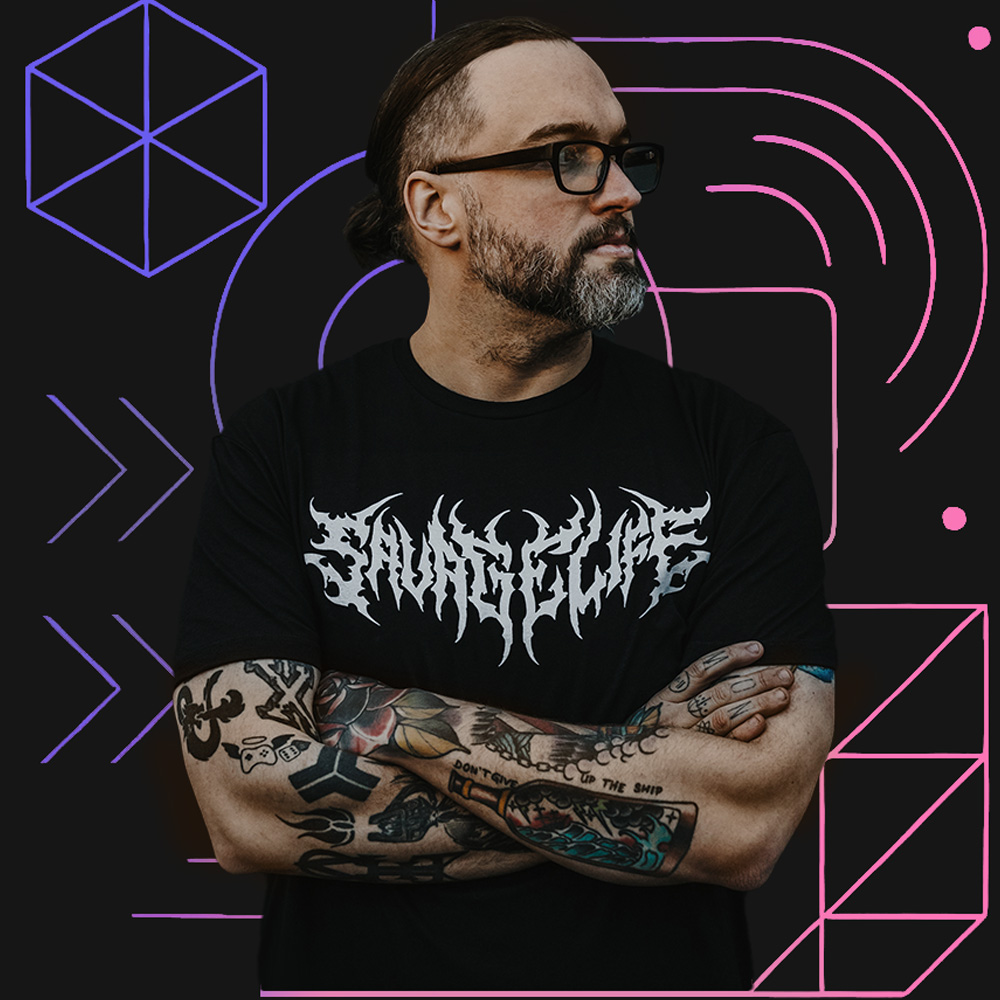
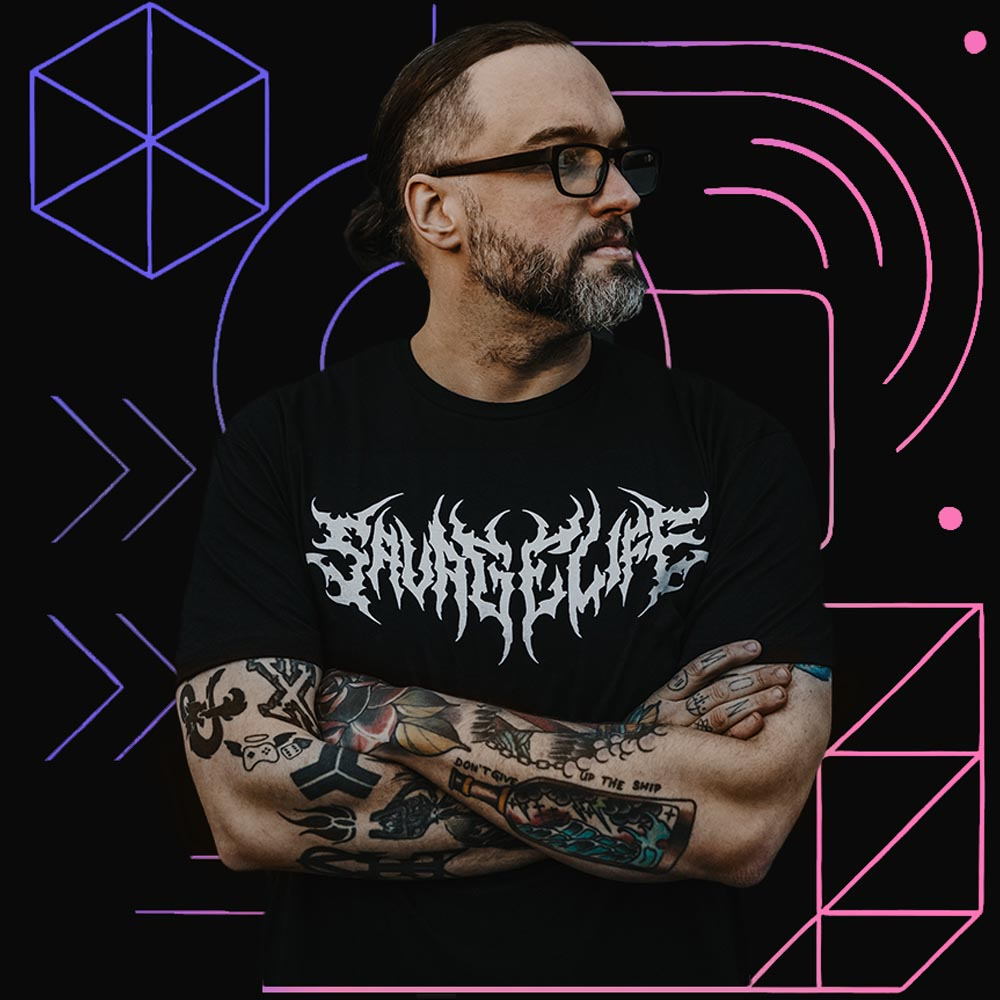
Navbar fixes, Home Card Updates, New Hero Image

diff --git a/src/app/globals.css b/src/app/globals.css
@@ -5,17 +5,17 @@
   --black: #020202;
   --white: #ffffff;
 
-  --smoke-950: #161616;
-  --smoke-900: #212121;
-  --smoke-800: #383838;
-  --smoke-700: #4f4f4f;
-  --smoke-600: #696969;
-  --smoke-500: #808080;
+  --smoke-50: #f2f2f2;
+  --smoke-100: #e6e6e6;
+  --smoke-200: #cccccc;
+  --smoke-300: #b3b3b3;
   --smoke-400: #969696;
-  --smoke-300: #adadad;
-  --smoke-200: #c4c4c4;
-  --smoke-100: #dbdbdb;
-  --smoke-50: #e8e8e8;
+  --smoke-500: #7d7d7d;
+  --smoke-600: #636363;
+  --smoke-700: #4a4a4a;
+  --smoke-800: #303030;
+  --smoke-900: #161616;
+  --smoke-950: #0a0a0a;
 
   --ekko-50: #f1f1fe;
   --ekko-100: #e3e3fd;
@@ -43,6 +43,7 @@
 
   --nice-420: #042069;
   --nice-069: #696969;
+  --brand: linear-gradient(90deg, var(--ekko-600), var(--accent-500));
 }
 
 @media (prefers-color-scheme: dark) {
@@ -56,6 +57,16 @@ html,
 body {
   max-width: 100vw;
   overflow-x: hidden;
+}
+
+h1,
+h2,
+h3,
+h4,
+h5,
+h6 {
+  font-family: Karla;
+  color: var(--white);
 }
 
 body {
@@ -96,6 +107,15 @@ main {
   margin-bottom: 4rem;
 }
 
+.container-small {
+  width: 100%;
+  max-width: 800px;
+  margin: auto;
+  gap: 2rem;
+  margin-top: 4rem;
+  margin-bottom: 4rem;
+}
+
 .image-cover {
   object-fit: cover;
 }
@@ -112,6 +132,64 @@ main {
 .flex-row {
   display: flex;
   flex-direction: row;
+}
+
+.gap-1 {
+  gap: .5rem;
+}
+
+.heading-home {
+  color: var(--white);
+  font-size: 48px;
+  font-weight: 600;
+  text-align: center;
+  margin: 4rem 0 4rem 0;
+}
+
+.text-home {
+  font-size: 20px;
+  color: var(--white);
+  text-align: center;
+  line-height: 2rem;
+}
+
+.primaryBtn {
+  display: inline-block;
+  padding: 1rem 2rem;
+  font-size: 1rem;
+  font-weight: 600;
+  color: var(--white);
+  background: linear-gradient(90deg, var(--ekko-600), var(--accent-500));
+  border: 2px transparent transparent;
+  border-radius: 8px;
+  text-decoration: none;
+  cursor: pointer;
+}
+
+.secondaryBtn {
+  display: inline-block;
+  padding: 1rem 2rem;
+  font-size: 1rem;
+  font-weight: 600;
+  color: var(--white);
+  background: transparent;
+  border: 2px solid;
+  border-image: linear-gradient(90deg, var(--ekko-600), var(--accent-500)) 1;
+  text-decoration: none;
+  cursor: pointer;
+  transition: all 150ms;
+}
+
+.secondaryBtn:hover {
+  display: inline-block;
+  padding: 1rem 2rem;
+  font-size: 1rem;
+  font-weight: 600;
+  color: var(--white);
+  background: linear-gradient(90deg, var(--ekko-600), var(--accent-500));
+  border: 2px transparent transparent;
+  text-decoration: none;
+  cursor: pointer;
 }
 
 .heroPrimaryBtn {
@@ -266,31 +344,4 @@ main {
 
 .heroSecondaryBtn:hover .border-draw {
   transition-delay: 0s, 0.15s, 0.35s;
-}
-
-.primaryBtn {
-  display: inline-block;
-  padding: 1rem 2rem;
-  font-size: 1rem;
-  font-weight: 600;
-  color: white;
-  background: linear-gradient(90deg, var(--ekko-600), var(--accent-500));
-  border: none;
-  border-radius: 8px;
-  text-decoration: none;
-  cursor: pointer;
-}
-
-.secondaryBtn {
-  display: inline-block;
-  padding: 1rem 2rem;
-  font-size: 1rem;
-  font-weight: 600;
-  color: white;
-  background: transparent;
-  border: 2px solid;
-  border-image: linear-gradient(90deg, var(--ekko-600), var(--accent-500)) 1;
-  border-radius: 8px;
-  text-decoration: none;
-  cursor: pointer;
 }

diff --git a/src/components/Navbar/Navbar.tsx b/src/components/Navbar/Navbar.tsx
@@ -28,16 +28,27 @@ export default function Navbar() {
             <li>
               <Link href='/resume'>Resume</Link>
             </li>
-            <li>
-              <Link href='/cases'>Case Studies</Link>
+            <li className='flex-row gap-1'>
+              <Link href='https://www.behance.net/mikekenway'
+                    target='_blank'
+              >
+                Case Studies
+              </Link>
+              <Image  src='/newtab.png'
+                alt=''
+                height={20}
+                width={20}
+              />
             </li>
             <li>
-              <Link
-                href='/contact'
-                className='primaryBtn'
-              >
-                Get in Touch
-              </Link>
+              <div>
+                <Link
+                  href='/contact'
+                  className={styles.navBtn}
+                >
+                  Get in Touch
+                </Link>
+              </div>
             </li>
           </ul>
         </nav>

diff --git a/src/components/Status/Status.module.css b/src/components/Status/Status.module.css
@@ -1,23 +1,21 @@
 .badge {
-    display: inline-flex;
-    align-items: center;
-    text-transform: uppercase;
-    background-color: var(--white);
-    color: var(--smoke-900);
-    padding: 6px 12px;
-    border-radius: 999px;
-    font-weight: 600;
-    font-size: .9rem;
-    margin-left: 1rem;
-  }
-  
-  .indicator {
-    width: 10px;
-    height: 10px;
-    background-color: #4caf50; 
-    border-radius: 50%;
-    margin-right: 8px;
-    box-shadow: 0 0 4px #4caf50; 
-  }
+  display: inline-flex;
+  align-items: center;
+  text-transform: uppercase;
+  background-color: var(--white);
+  color: var(--smoke-900);
+  padding: 6px 12px;
+  border-radius: 999px;
+  font-weight: 600;
+  font-size: 0.9rem;
+  margin-left: 1rem;
+}
 
-  
+.indicator {
+  width: 10px;
+  height: 10px;
+  background-color: #4caf50;
+  border-radius: 50%;
+  margin-right: 8px;
+  box-shadow: 0 0 4px #4caf50;
+}

diff --git a/src/components/ServiceCard/ServiceCard.module.css b/src/components/ServiceCard/ServiceCard.module.css
@@ -2,30 +2,32 @@
 .card {
     display: flex;
     flex-direction: column;
-    border: 1px solid #e0e0e0; /* light border */
+    border: 1px solid transparent; /* light border */
     border-radius: 12px;
-    padding: 24px;
+    padding: 40px;
     text-align: center;
     max-width: 570px;
-    gap: 1rem;
     align-items: start;
-    color: #fff;
+    color: var(--white);
+    gap: 1.5rem;
+    background-color: var(--smoke-900);
   }
   
   .title {
-    font-size: 2rem;
+    font-size: 2.2rem;
     margin-bottom: 12px;
   }
   
   .description {
     font-size: 1.5rem;
+    line-height: 2.5rem;
     margin-bottom: 16px;
     text-align: left;
   }
   
   /* Hover effects */
   .card:hover {
-    border-color: var(--accent-400);
+    border-color: var(--ekko-400);
     box-shadow: 0 8px 20px rgba(0, 0, 0, 0.1);
     transition: 150ms ease-in-out;
   }

diff --git a/src/components/Navbar/Navbar.module.css b/src/components/Navbar/Navbar.module.css
@@ -30,7 +30,7 @@
   list-style: none;
   display: flex;
   align-items: center;
-  gap: 2rem;
+  gap: 2.5rem;
   margin: 0;
   padding: 0;
 }
@@ -43,7 +43,7 @@
 
 }
 
-.navLinks a:hover:not(.primaryBtn) {
+.navLinks a:hover:not(.navBtn) {
   color: var(--ekko-300);
   transition: color 200ms ease-in-out;
 }
@@ -59,4 +59,17 @@
   color: var(--white);
   font-size: 36px;
   font-weight: 600;
+}
+
+.navBtn {
+  display: inline-block;
+  padding: 1rem 2rem;
+  font-size: 1rem;
+  font-weight: 600;
+  color: var(--white);
+  background: linear-gradient(90deg, var(--ekko-600), var(--accent-500));
+  border: 2px transparent transparent;
+  border-radius: 8px;
+  text-decoration: none;
+  cursor: pointer;
 }

diff --git a/src/app/layout.tsx b/src/app/layout.tsx
@@ -3,6 +3,7 @@ import styles from './layout.module.css';
 import Navbar from '../components/Navbar/Navbar';
 import { Inter } from 'next/font/google';
 import { Roboto } from 'next/font/google';
+import { Karla } from 'next/font/google';
 
 // Define props for our Layout to accept children (page content)
 interface LayoutProps {
@@ -17,6 +18,12 @@ const inter = Inter({
 });
 
 const roboto = Roboto({
+  subsets: ['latin'],
+  weight: ['400', '500', '600', '700'],
+  display: 'swap',
+});
+
+const karla = Karla({
   subsets: ['latin'],
   weight: ['400', '500', '600', '700'],
   display: 'swap',

diff --git a/src/app/page.tsx b/src/app/page.tsx
@@ -7,6 +7,12 @@ export default function Home() {
   return (
     <main>
       <Hero />
+      <h2 className='heading-home'>What Can I Do for You?</h2>
+      <p className='container-small text-home'>
+        I love helping people bring their ideas to life. Whether you need
+        thoughtful design, clear strategy, or both, I’m here to help shape
+        projects that connect and make an impact.
+      </p>
       <div className='container flex-row'>
         <ServiceCard
           title='UX/UI Design'

diff --git a/src/components/ServiceCard/ServiceCard.tsx b/src/components/ServiceCard/ServiceCard.tsx
@@ -12,7 +12,7 @@ interface ServiceCardProps {
 
 export default function ServiceCard({
   title,
-  description,
+  description,               
   link,
   src,
   alt,
